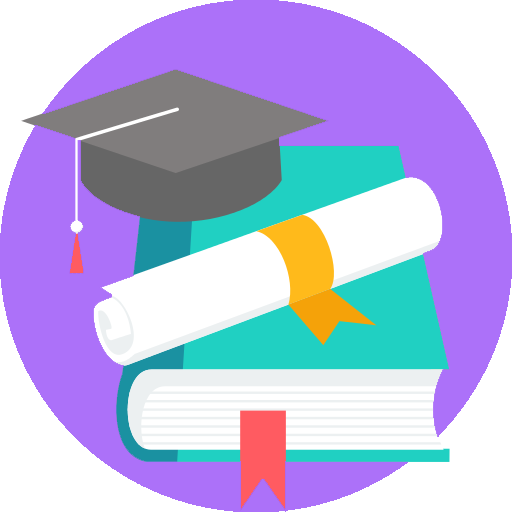
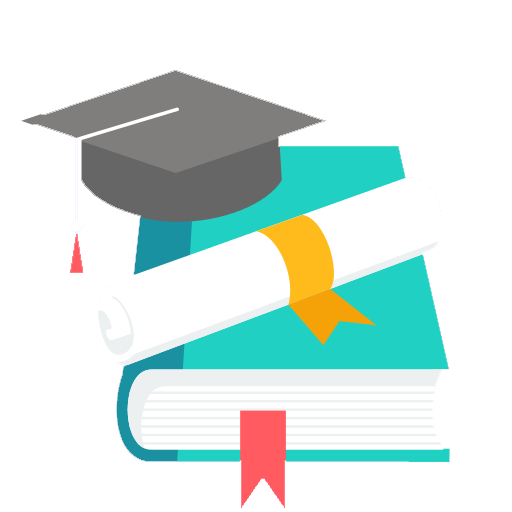
minor updates
- alpha icons
- added animations to text
- updates to skeleton framework (view sizes)

diff --git a/index.html b/index.html
@@ -30,7 +30,7 @@
   <![endif]-->
 
   <!-- ============ Menu Bar ============== -->
-  <div class="sticky" id="menuContainer">
+  <div class="sticky" id="menuContainer" data-aos="fade-in" data-aos-duration="400" data-aos-delay="300">
     <ul id="menubar">
       <li class="hvr-grow" id="home">
         <a href="index.html" >
@@ -49,8 +49,8 @@
       <div class="container">
         <div class="row">
           <div>
-            <h1>Hello!</h1>
-            <p class="homeOpener">My name is Erik Yan. I am a data analyst interested in the power of programming. This is my personal website that I designed, coded, and launched! This website is where I post information about me, my work, and my hobbies.
+            <h1 data-aos="fade-in" data-aos-duration="400" data-aos-delay="300">Hello</h1>
+            <p class="homeOpener" data-aos="fade-in" data-aos-duration="400" data-aos-delay="300">My name is Erik Yan. I am a data analyst interested in the power of programming. This is my personal website that I designed, coded, and launched! This website is where I post information about me, my work, and my hobbies.
             </p>
           </div>
         </div>
@@ -64,9 +64,9 @@
     <div class="container">
       <div class="row">
         <div>
-          <h2>About Me</h2>
-          <p class="homeOpener">Utilizing developer tools to improve healthcare.</p>
-          <a href="about.html"><img class="sectImgs hvr-wobble-top" alt="asian man" src="img/homeSections/skillsSection/asian.png" data-aos="fade-in" data-aos-duration="500" data-aos-offset="100"/></a>
+          <h2 data-aos="fade-in" data-aos-duration="400" data-aos-delay="300">About Me</h2>
+          <p class="homeOpener" data-aos="fade-in" data-aos-duration="400" data-aos-delay="300">Utilizing developer tools to improve healthcare.</p>
+          <a href="about.html"><img class="sectImgs hvr-wobble-top" alt="asian man" src="img/homeSections/skillsSection/asian.png" data-aos="fade-in" data-aos-duration="800"/></a>
         </div>
       </div>
     </div>
@@ -106,10 +106,10 @@
     <div class="container">
       <div class="row">
         <div>
-          <h2>My Work</h2>
+          <h2 data-aos="fade-in" data-aos-duration="400" data-aos-delay="300">My Work</h2>
         </div>
         <div>
-          <p class="homeOpener">Check out what projects I'm currently working on and see whats new.</p>
+          <p class="homeOpener" data-aos="fade-in" data-aos-duration="400" data-aos-delay="300">Check out what projects I'm currently working on and see whats new.</p>
       </div>
     </div>
     </div>
@@ -133,9 +133,9 @@
     <div class="container">
       <div class="row">
         <div>
-          <h2>Contact Me</h2>
+          <h2 data-aos="fade-in" data-aos-duration="400" data-aos-delay="300">Contact Me</h2>
           <div>
-            <p class="homeOpener">Let's get some coffee and chat.</p>
+            <p class="homeOpener" data-aos="fade-in" data-aos-duration="400" data-aos-delay="300">Let's get some coffee and chat.</p>
           </div>
           <div data-aos="fade-in" data-aos-duration="500">
             <a href="contact.html"><img class="sectImgs hvr-wobble-top" src="img/homeSections/contactSection/coffee.png"/></a>
@@ -188,6 +188,10 @@
   <script>window.jQuery || document.write('<script src="js/vendor/jquery-3.3.1.min.js"><\/script>')</script>
   <script src="js/plugins.js"></script>
   <script src="js/main.js"></script>
+
+
+
+
 
   <!-- Google Analytics: change UA-XXXXX-Y to be your site's ID. -->
   <script>

diff --git a/about.html b/about.html
@@ -47,12 +47,12 @@
       <div class="container">
         <div class="row">
           <div>
-            <h1>About Me</h1>
+            <h1 data-aos="fade-in" data-aos-duration="400" data-aos-delay="300">About Me</h1>
             <div id="quoteBackground">
-              <p class="aboutQuote">" You don't have to prove yourself;</p>
-              <p class="aboutQuote"> but improve yourself, everyday "</p>
+              <p class="aboutQuote" data-aos="fade-in" data-aos-duration="400" data-aos-delay="300">" You don't have to prove yourself;</p>
+              <p class="aboutQuote" data-aos="fade-in" data-aos-duration="400" data-aos-delay="300"> but improve yourself, everyday "</p>
             </div>
-            <p class="aboutOpener">I endeavor to improve myself everyday; to grow in ways that empower me and those around me.
+            <p class="aboutOpener" data-aos="fade-in" data-aos-duration="400" data-aos-delay="300">I endeavor to improve myself everyday; to grow in ways that empower me and those around me.
               My goal is to explore the potential of technology and data analytics as tools to enhance healthcare.</p>
 
           </div>
@@ -67,7 +67,7 @@
       <div class="container">
         <div class="row">
           <div>
-            <h2>Education</h2>
+            <h2 data-aos="fade-in" data-aos-duration="400" data-aos-delay="300">Education</h2>
           </div>
           <div class="sect">
             <img class="sectImgs" data-aos="fade-in" data-aos-duration="500" data-aos-offset="200" alt="edu section" src="img/aboutSections/edu2alt.png"/>
@@ -113,7 +113,7 @@
       <div class="container">
         <div class="row">
           <div>
-            <h2>Skills</h2>
+            <h2 data-aos="fade-in" data-aos-duration="400" data-aos-delay="300">Skills</h2>
           </div>
           <div class="sect">
             <img class="sectImgs" alt="skills section" src="img/aboutSections/skills.png" data-aos="fade-in" data-aos-duration="500" data-aos-offset="100"/>
@@ -174,7 +174,7 @@
               <tr>
                 <td class="tableImg2" id="aboutSkillsRow4R" data-aos="fade-down-right" data-aos-duration="600" data-aos-offset="100" data-aos-delay="300">
                   <img class="skillImg" alt="Data Science" src="img/skills/datasci.png"/></td>
-                <td class="skillName" id="aboutSkillsRow4R" data-aos="fade-left" data-aos-duration="600" data-aos-offset="100" data-aos-delay="300">Data Science</td>
+                <td class="skillName" id="aboutSkillsRow4R" data-aos="fade-left" data-aos-duration="600" data-aos-offset="100" data-aos-delay="300">Data Analytics</td>
               </tr>
             </table>
           </div>
@@ -189,7 +189,7 @@
       <div class="container">
         <div class="row">
           <div>
-            <h2>Hobbies</h2>
+            <h2 data-aos="fade-in" data-aos-duration="400" data-aos-delay="300">Hobbies</h2>
           </div>
           <div class="sect">
             <img data-aos="fade-in" data-aos-duration="500" class="sectImgs" alt="hobby section" src="img/aboutSections/hobbies.png"/>

diff --git a/contact.html b/contact.html
@@ -48,12 +48,12 @@
       <div class="container">
         <div class="row">
           <div>
-            <h1>Contact Me</h1>
-            <p class="contactOpener">If you like this website, are interested in learning more, or would like to chat;
+            <h1 data-aos="fade-in" data-aos-duration="400" data-aos-delay="300">Contact Me</h1>
+            <p class="contactOpener" data-aos="fade-in" data-aos-duration="400" data-aos-delay="300">If you like this website, are interested in learning more, or would like to chat;
               please contact me through social media! The icon sizes represent the best ways to contact me.
               The larger the icon, the better the mode of contact!
             </p>
-            <p class="contactDisclaimer">
+            <p class="contactDisclaimer" data-aos="fade-in" data-aos-duration="400" data-aos-delay="300">
               (Disclaimer: Some of the icons intentionally do not have links)
             </p>
           </div>
@@ -107,17 +107,17 @@
     <div class="container">
       <div class="row">
         <div>
-          <h2>Shoutout!</h2>
+          <h2 data-aos="fade-in" data-aos-duration="400" data-aos-delay="300">Shoutout!</h2>
         </div>
         <div>
-          <p class="contactShoutout">Thank you to those who inspired me and influenced my website design:</p>
-          <p class="contactShoutout">
+          <p class="contactShoutout" data-aos="fade-in" data-aos-duration="400" data-aos-delay="300">Thank you to those who inspired me and influenced my website design:</p>
+          <p class="contactShoutout" data-aos="fade-in" data-aos-duration="400" data-aos-delay="300">
             <a href="http://aaronyan.me" style="text-decoration:none">~ Aaron Yan ~</a>
             <a href="https://www.behance.net/NhorPhai/following" style="text-decoration:none">~ Nhor Phai ~</a>
             <a href="https://www.freepik.com/photo3idea-studio" style="text-decoration:none">~ photo3idea_studio ~</a>
 
           </p>
-          <p class="contactOtherShoutout">
+          <p class="contactOtherShoutout" data-aos="fade-in" data-aos-duration="400" data-aos-delay="300">
             <a href="https://creativemarket.com/eucalyp" style="text-decoration:none"> Eucalyp </a>
             <a href="https://www.freepik.com/" style="text-decoration:none"> Freepik </a>
             <a href="https://hanken.co/" style="text-decoration:none"> Hanken </a>

diff --git a/css/skeleton.css b/css/skeleton.css
@@ -53,7 +53,7 @@
   .column, .columns{ margin-left: 1.5%; }
 }
 
-@media (min-width: 1000px) {
+@media (min-width: 1050px) {
   .container { width: 80%; }
   .column, .columns { margin-left: 4%; }
   .column:first-child, .columns:first-child { margin-left: 0; }
@@ -132,7 +132,7 @@ body {
 h1, h2, h3, h4, h5, h6 {
   margin-top: 0;
   margin-bottom: 2rem;
-  font-weight: 300; }
+  font-weight: 400; }
 h1 { font-size: 4.0rem; line-height: 1.2;  letter-spacing: -.1rem;}
 h2 { font-size: 3.6rem; line-height: 1.25; letter-spacing: -.1rem; }
 h3 { font-size: 3.0rem; line-height: 1.3;  letter-spacing: -.1rem; }

diff --git a/css/main.css b/css/main.css
@@ -67,8 +67,7 @@ h1,h2{
 }
 h1,h2,h3,h4,h5,h6{
   text-align: center;
-  font-family: HKGroteskBold;
-  font-weight: bold;
+  font-family: Helvetica;
   overflow:hidden;
 }
 p{
@@ -217,6 +216,7 @@ li a:hover {
 .sticky {
   position: fixed;
   top: 0;
+  background-color: rgb(0, 0, 0,0.5);
 }
 
 /* ==========================================================================
@@ -233,6 +233,7 @@ p.homeOpener{
     font-size: 20px;
   }
 }
+
 /* Home About Section */
 #homeSkills{
   text-align: center;
